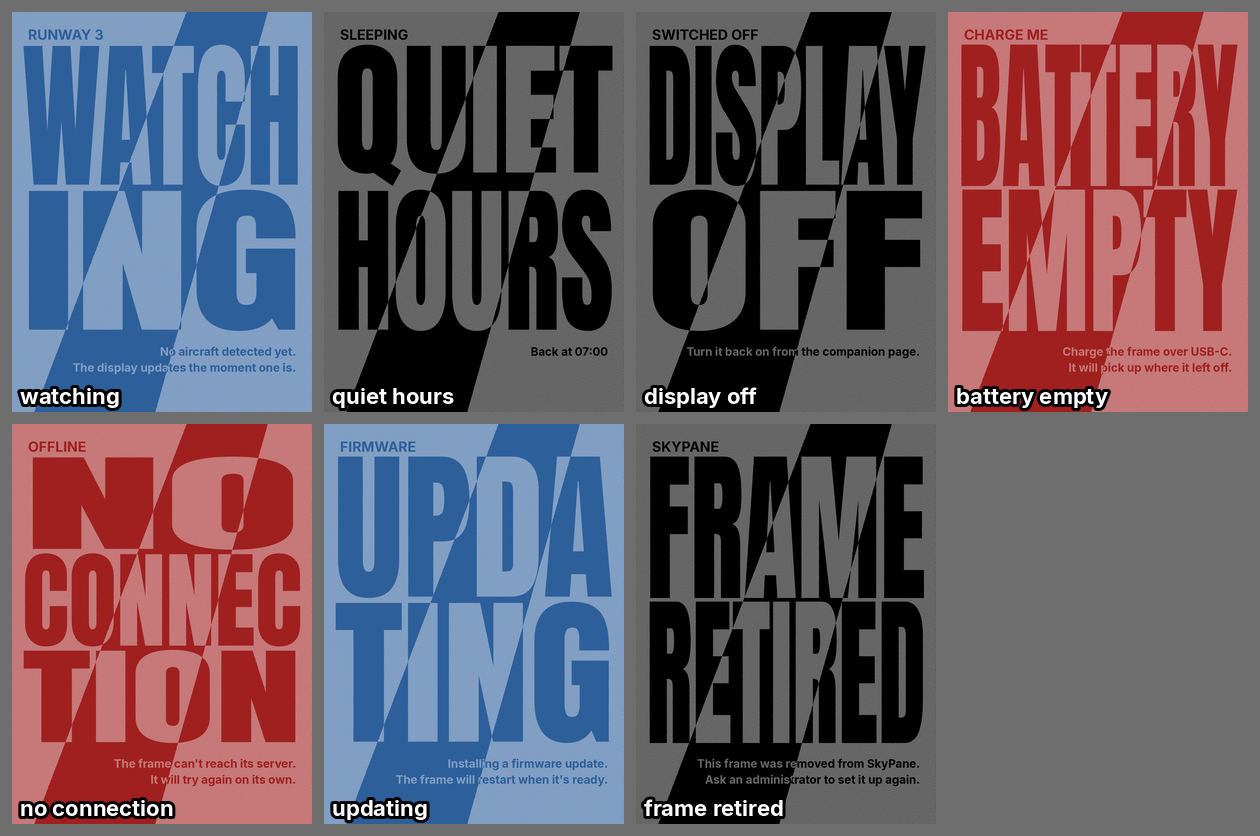
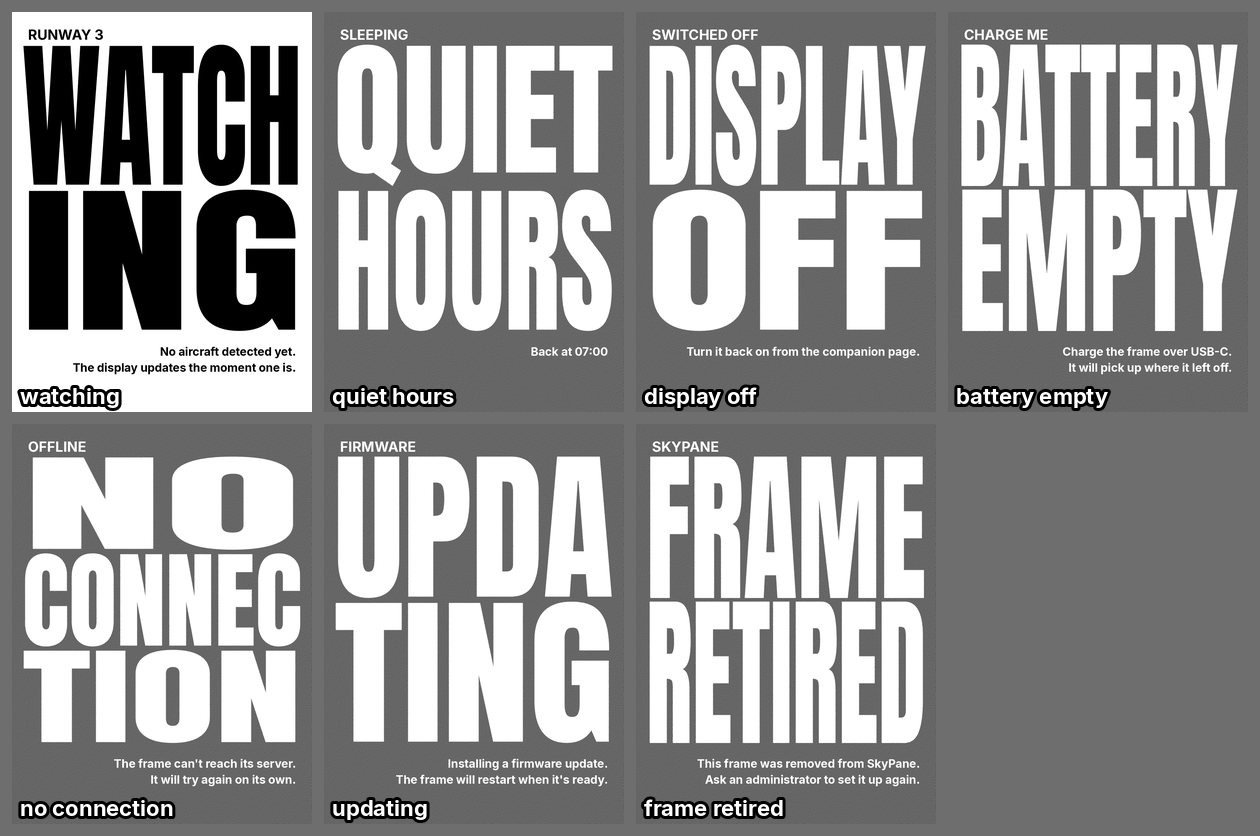
Mock-up: generic status screens without band or theme colours
Claude-Session: https://claude.ai/code/session_019w4bpjg26CtsBp1Ywmgh2a

diff --git a/design-exploration/plane-screen/mock_states.py b/design-exploration/plane-screen/mock_states.py
@@ -10,44 +10,44 @@ import sys
 from PIL import Image, ImageDraw, ImageFont
 
 sys.path.insert(0, os.path.dirname(os.path.abspath(__file__)))
-import mock_diagonal as d  # noqa: E402
 import mock_giant_city as g  # noqa: E402
 import mock_themes as t  # noqa: E402
 
 from server import panel_format as pf  # noqa: E402
 
 W, H = g.W, g.H
+WHITE = (255, 255, 255)
 
-# (key, lettering lines, small label, body lines, field ink, field lightening)
+# (key, lettering lines, small label, body lines, white field?)
+# Generic screens: they do not follow the theme. Same colours as today: white
+# for the watching screen, the dimmed (dithered dark) field with white ink for
+# every other one.
 STATES = [
-    ("watching", ["WATCH", "ING"], "RUNWAY 3", ["No aircraft detected yet.", "The display updates the moment one is."], pf.IDX_BLUE, None),
-    ("quiet hours", ["QUIET", "HOURS"], "SLEEPING", ["Back at 07:00"], pf.IDX_BLACK, None),
-    ("display off", ["DISPLAY", "OFF"], "SWITCHED OFF", ["Turn it back on from the companion page."], pf.IDX_BLACK, None),
-    ("battery empty", ["BATTERY", "EMPTY"], "CHARGE ME", ["Charge the frame over USB-C.", "It will pick up where it left off."], pf.IDX_RED, None),
-    ("no connection", ["NO", "CONNEC", "TION"], "OFFLINE", ["The frame can't reach its server.", "It will try again on its own."], pf.IDX_RED, None),
-    ("updating", ["UPDA", "TING"], "FIRMWARE", ["Installing a firmware update.", "The frame will restart when it's ready."], pf.IDX_BLUE, None),
-    ("frame retired", ["FRAME", "RETIRED"], "SKYPANE", ["This frame was removed from SkyPane.", "Ask an administrator to set it up again."], pf.IDX_BLACK, None),
+    ("watching", ["WATCH", "ING"], "RUNWAY 3", ["No aircraft detected yet.", "The display updates the moment one is."], True),
+    ("quiet hours", ["QUIET", "HOURS"], "SLEEPING", ["Back at 07:00"], False),
+    ("display off", ["DISPLAY", "OFF"], "SWITCHED OFF", ["Turn it back on from the companion page."], False),
+    ("battery empty", ["BATTERY", "EMPTY"], "CHARGE ME", ["Charge the frame over USB-C.", "It will pick up where it left off."], False),
+    ("no connection", ["NO", "CONNEC", "TION"], "OFFLINE", ["The frame can't reach its server.", "It will try again on its own."], False),
+    ("updating", ["UPDA", "TING"], "FIRMWARE", ["Installing a firmware update.", "The frame will restart when it's ready."], False),
+    ("frame retired", ["FRAME", "RETIRED"], "SKYPANE", ["This frame was removed from SkyPane.", "Ask an administrator to set it up again."], False),
 ]
 
 
-def render(lines, label, body, idx, fraction):
-    ink = t.ink_rgb(idx)
-    field = t.lightened_field(idx, fraction) if fraction else t.field(idx, True)
-    solid = Image.new("RGB", (W, H), ink)
-    mask = d.band_mask()
-    c = field.copy()
-    c.paste(solid, (0, 0), mask)
-    tone = Image.composite(field, solid, mask)
-    g.giant_text(c, lines, (40, 130, W - 40, 1290), tone, heavy=1)
-    layer = Image.new("L", (W, H), 0)
-    dr = ImageDraw.Draw(layer)
-    dr.text((64, 56), label, font=ImageFont.truetype(g.FONT, 56), fill=255)
+def render(lines, label, body, white):
+    if white:
+        c = Image.new("RGB", (W, H), WHITE)
+        ink = (0, 0, 0)
+    else:
+        c = t.field(pf.IDX_BLACK, True).copy()
+        ink = WHITE
+    g.giant_text(c, lines, (40, 130, W - 40, 1290), ink, heavy=1)
+    dr = ImageDraw.Draw(c)
+    dr.text((64, 56), label, font=ImageFont.truetype(g.FONT, 56), fill=ink)
     y = 1330
     for line in body:
         font = ImageFont.truetype(g.FONT, 46)
-        dr.text((W - 64 - font.getlength(line), y), line, font=font, fill=255)
+        dr.text((W - 64 - font.getlength(line), y), line, font=font, fill=ink)
         y += 64
-    c.paste(tone, (0, 0), layer)  # the text flips tone where it crosses the band
     return c
 
 
@@ -57,8 +57,8 @@ def main(out_dir, font_dir):
     tw, th = 300, 400
     label_font = ImageFont.truetype("server/assets/fonts/Inter-Bold.ttf", 22)
     sheet = Image.new("RGB", (4 * (tw + 12) + 12, 2 * (th + 12) + 12), (110, 110, 110))
-    for i, (key, lines, label, body, idx, fraction) in enumerate(STATES):
-        c = render(lines, label, body, idx, fraction)
+    for i, (key, lines, label, body, white) in enumerate(STATES):
+        c = render(lines, label, body, white)
         c.save(os.path.join(out_dir, "state-%s.png" % key.replace(" ", "_")))
         thumb = c.resize((tw, th), Image.LANCZOS)
         ImageDraw.Draw(thumb).text((8, th - 30), key, font=label_font, fill=(255, 255, 255), stroke_width=3, stroke_fill=(0, 0, 0))

diff --git a/.planning/notes/plane-screen-design-brief.md b/.planning/notes/plane-screen-design-brief.md
@@ -109,6 +109,21 @@ lettering stays plain yellow. Landscape versions of both layouts with the band
 are in `landscape-diagonal-nose-tail.png` and `landscape-diagonal-whole.png`;
 there the state label sits above the lettering so the two no longer touch.
 
+### Status screens
+
+Today's hold screens (watching, quiet hours, display off, battery empty, no
+connection, updating, pairing, retired; `status-screens-current.png`) are all a
+tiny icon plus a small label and are unreadable from 3 m. Decided: every one
+except pairing (its code is typed from close up) gets the giant lettering, in
+Anton, with a short keyword split over lines (`status-screens-new.png`). These
+screens are generic: no diagonal band, no theme colours, same colours as today
+(white field for watching, dithered dark field with white ink for the others).
+No connection and updating are drawn by the firmware from a mask generated by
+`_build_no_connection_canvas()` / `_build_updating_canvas()`; the masks and the
+firmware headers would have to be regenerated, and the lettering must stay
+exactly two colours. OVERHEAD, NEARBY and SET A LOCATION are tags on the flight
+screens and follow them.
+
 ### Departure vs arrival
 
 Direction is currently only a small word at the top. At 3 m it is invisible, so
